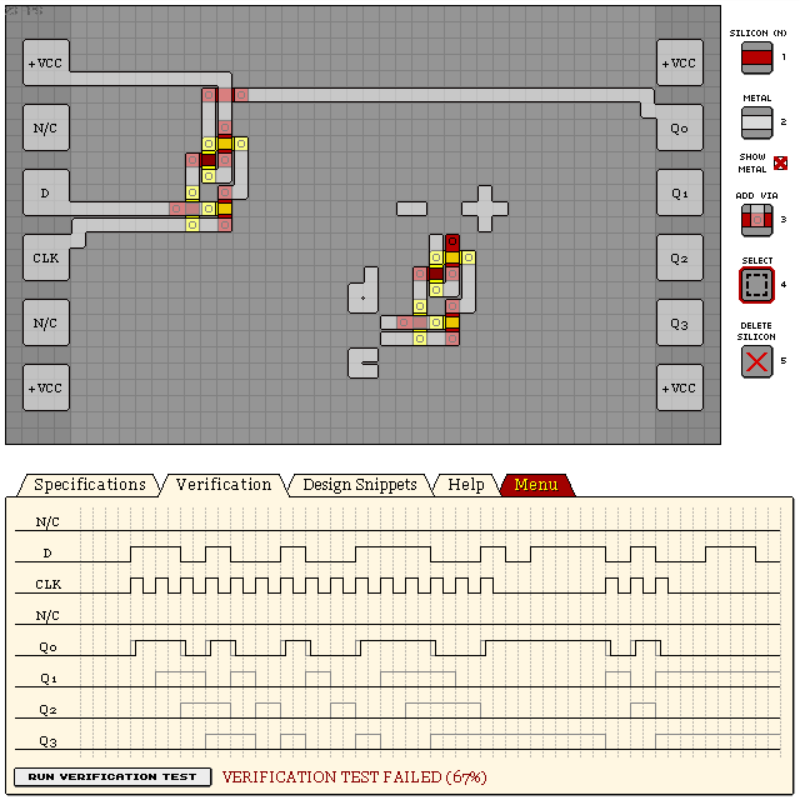
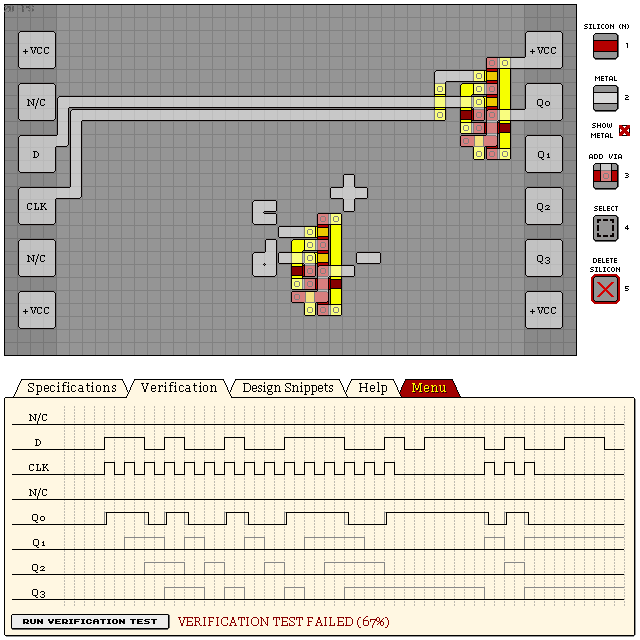
new D flip flop

Changed region(s): [[0.0, 0.5938, 1.0, 1.0], [0.0, 0.0, 1.0, 0.5625], [0.375, 0.2188, 0.6562, 0.5]]

diff --git a/snippets/d-flipflop.md b/snippets/d-flipflop.md
@@ -1,33 +1,45 @@
 # D Flip-Flops
 
-## Edge-triggered D Flip-Flop
+## D Flip-Flop
+
+Design score: 45
 
 ```
[8 lines of base64/hex data omitted]
-Khl6yVd/gs+T3dw0Gb3qtUpGSWtO3tWSOWuooXixI8XbL/Uwx58=
[10 lines of base64/hex data omitted]
+lQ==
 ```
 
-![D LATCH](./assets/d-flipflop.png)
+![D LATCH MINI](./assets/d-flipflop.png)
 
+## Mini Variant
 
-WIP faster:
+Smaller, less accurate.
+
+Design score: 30
 
 ```
[15 lines of base64/hex data omitted]
+bEz/S1Ta9AG//bu2yXM+NtZ+NZH1XyM/1xqzukw/0sWR8uMJ7+DHqw==
 ```
+
+![D LATCH](./assets/d-flipflop-mini.png)
+
 
 ## See Also
 
